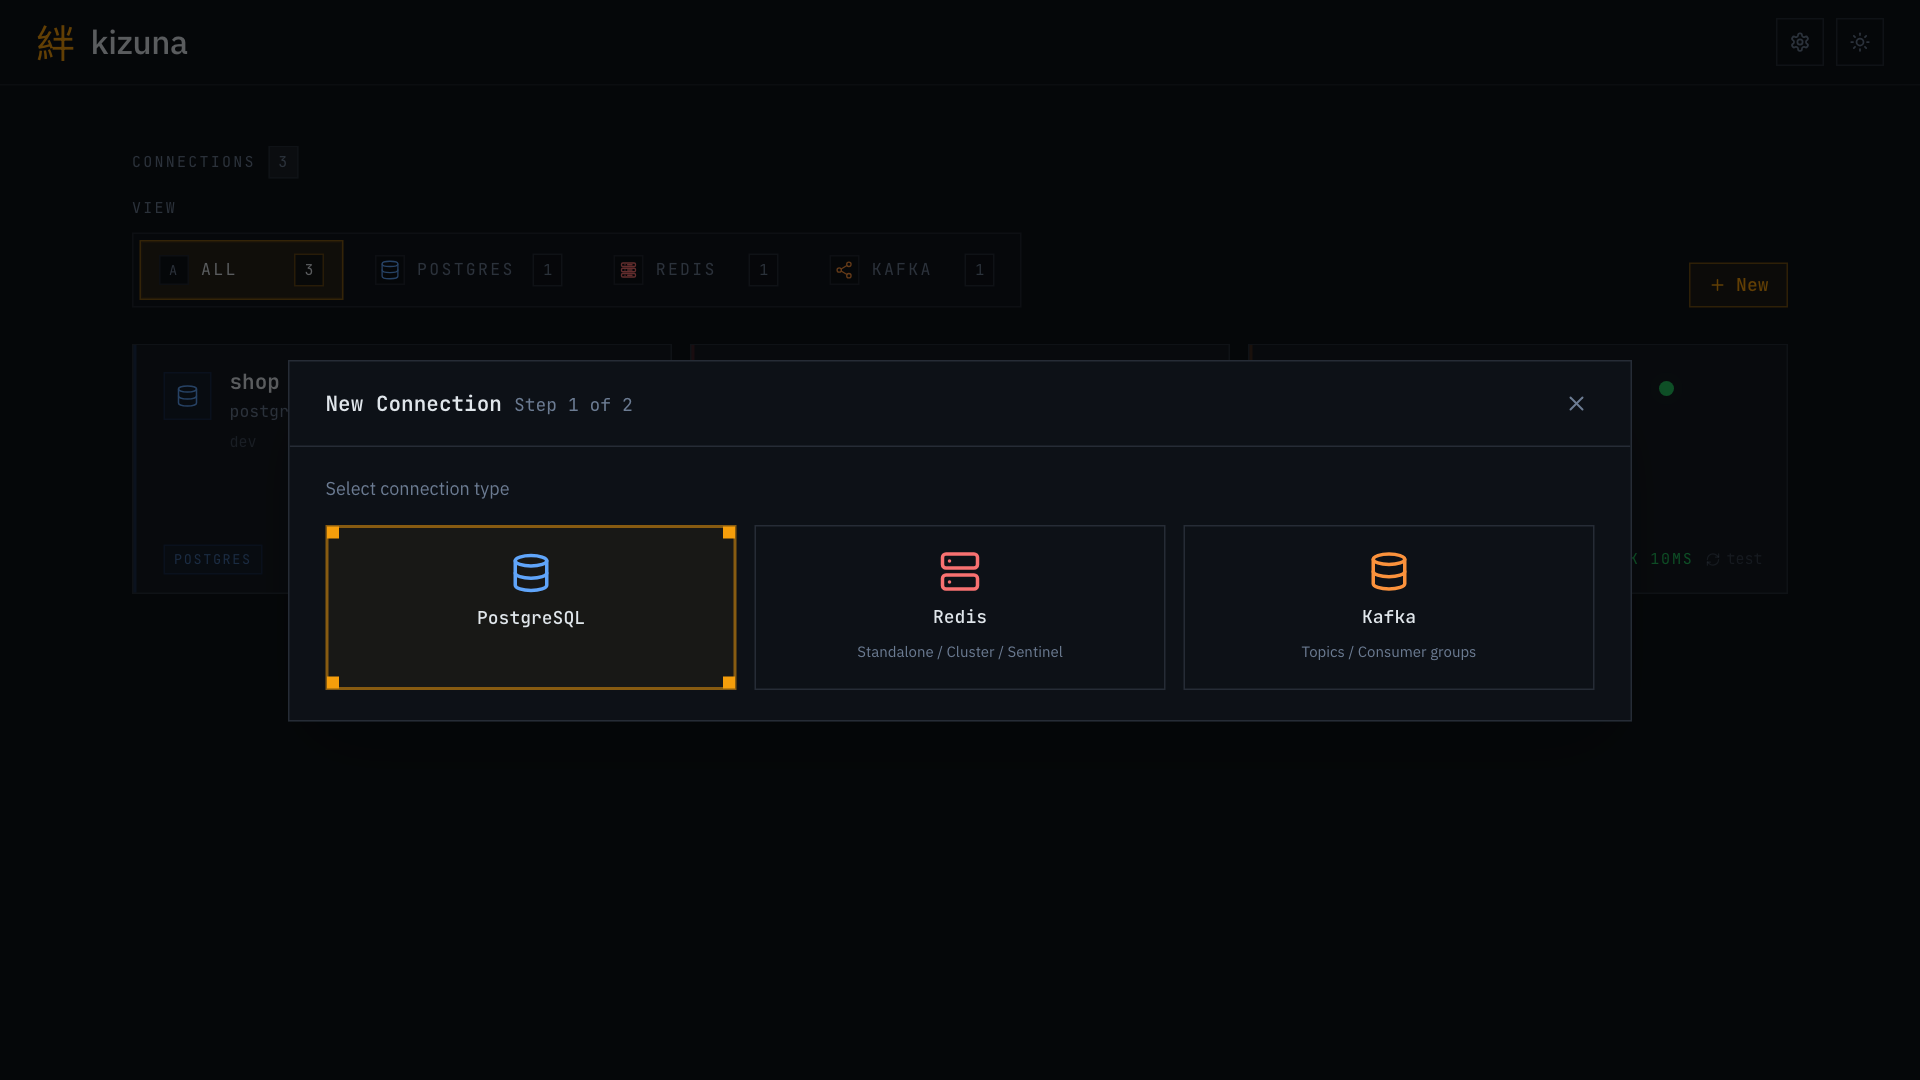
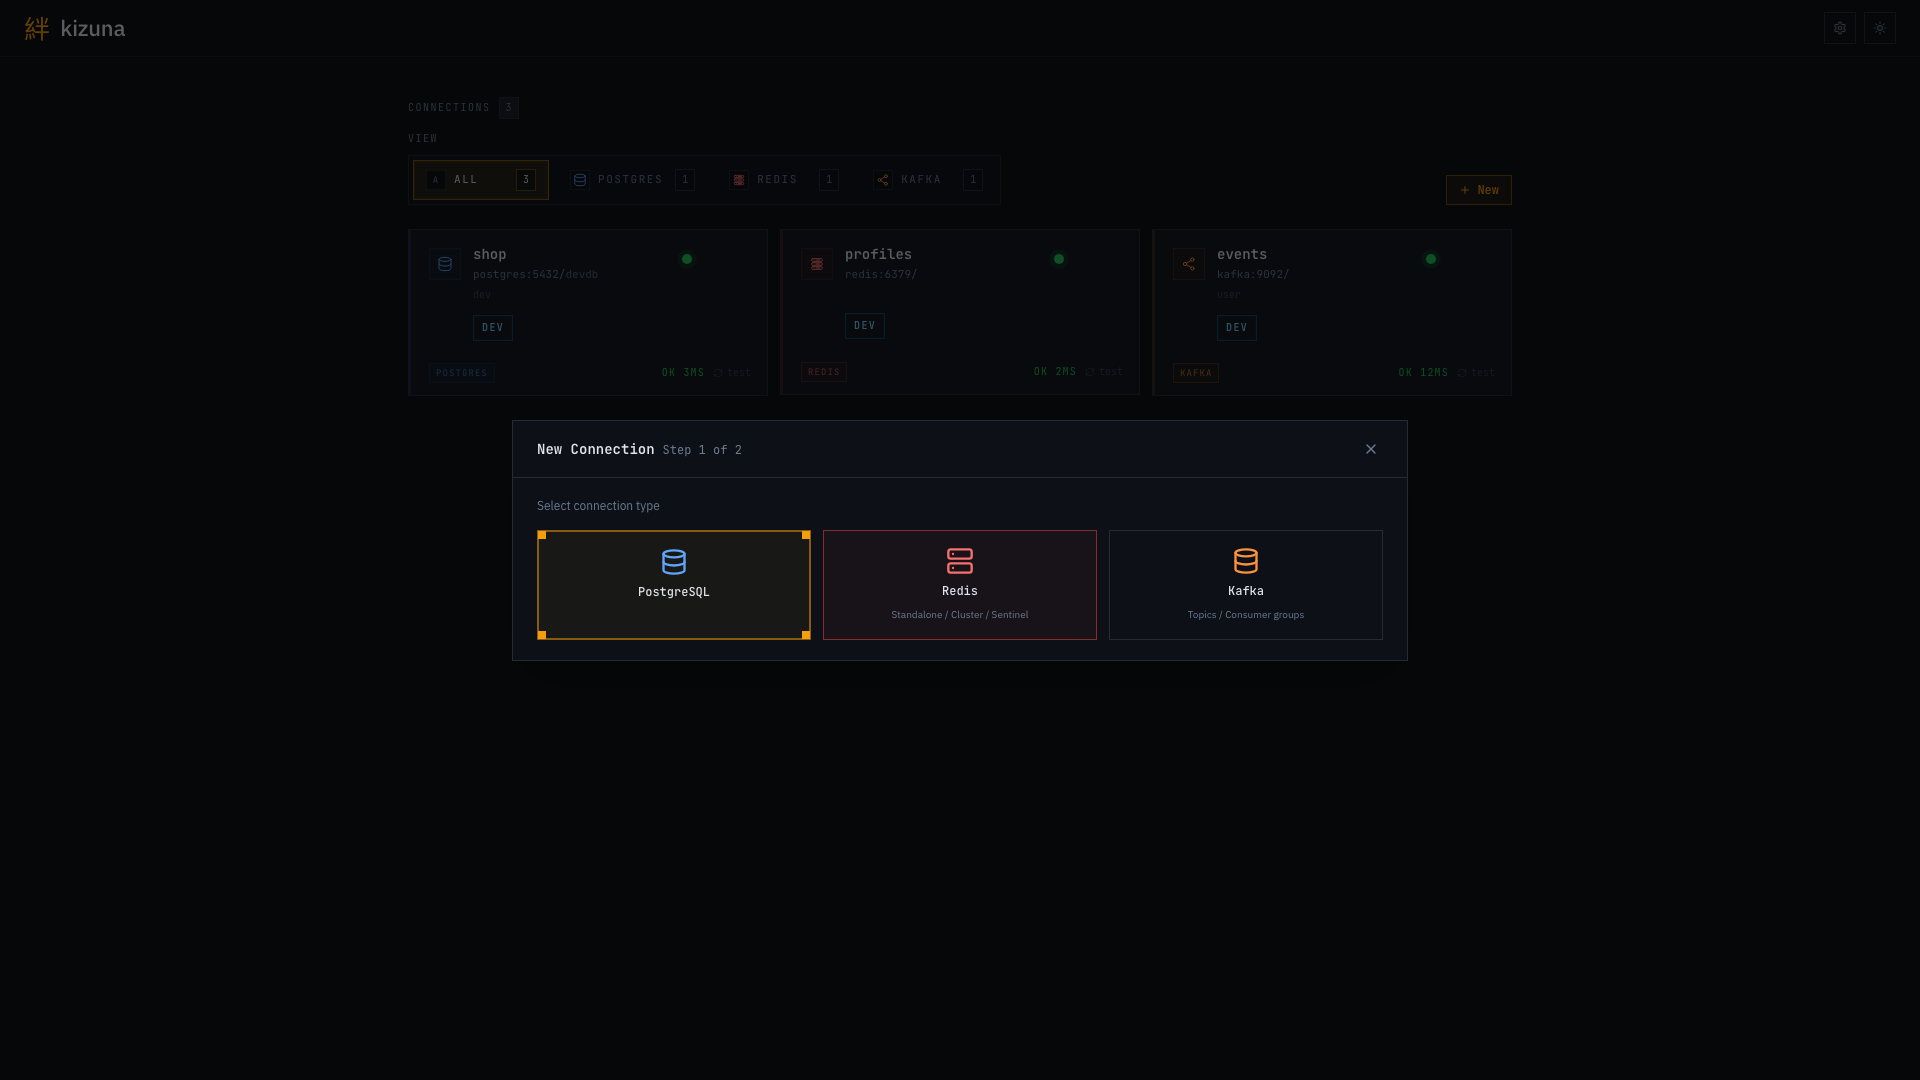
Reshoot the three README clips that were deleted, on the current build

diff --git a/README.md b/README.md
@@ -48,7 +48,10 @@ go run ./cmd/kizuna
 Подключайте три типа источников в одном мастере: **PostgreSQL**, **Redis** и **Kafka**. Redis поддерживает standalone, Cluster и Sentinel; для Kafka доступны несколько брокеров, SASL и TLS с пользовательским CA bundle.
 
 <p align="center">
-    <img src=".github/assets/connections-types.png" width="960" alt="Мастер нового подключения с выбором PostgreSQL, Redis и Kafka">
+    <picture>
+      <source srcset=".github/assets/connections-types.webp" type="image/webp">
+      <img src=".github/assets/connections-types.png" width="960" alt="Мастер нового подключения с выбором PostgreSQL, Redis и Kafka">
+    </picture>
 </p>
 
 ## PostgreSQL — от схемы до запроса
@@ -94,7 +97,10 @@ go run ./cmd/kizuna
 Производитель умеет отправлять одно сообщение, набор JSON-объектов в режиме **Multi** или пакет, развёрнутый из шаблона в режиме **Loop**. Перед отправкой Kizuna показывает точный preview каждого сообщения: выражения `{{i}}`, шаг и количество можно проверить до записи в Kafka.
 
 <p align="center">
-    <img src=".github/assets/kafka-produce.png" width="960" alt="Kafka producer переключается между режимами Multi и Loop и показывает предварительный просмотр пакета сообщений">
+    <picture>
+      <source srcset=".github/assets/kafka-produce.webp" type="image/webp">
+      <img src=".github/assets/kafka-produce.png" width="960" alt="Kafka producer переключается между режимами Multi и Loop и показывает предварительный просмотр пакета сообщений">
+    </picture>
 </p>
 
 <p align="center">
@@ -110,7 +116,10 @@ go run ./cmd/kizuna
 **Дальше это работает само.** Правый клик по любому сообщению этого топика — и в меню уже висит `Redis: profile:1008`. Оттуда тем же движением в `public.orders`, отфильтрованные по тому же `user_id`. Фильтр, breadcrumb и обратные переходы Kizuna строит сама — ни одного скопированного значения.
 
 <p align="center">
-    <img src=".github/assets/cross-source-links.png" width="960" alt="Создание связи из Kafka-сообщения и переход по ней в Redis-профиль и заказы PostgreSQL">
+    <picture>
+      <source srcset=".github/assets/cross-source-links.webp" type="image/webp">
+      <img src=".github/assets/cross-source-links.png" width="960" alt="Создание связи из Kafka-сообщения и переход по ней в Redis-профиль и заказы PostgreSQL">
+    </picture>
 </p>
 
 <p align="center">
